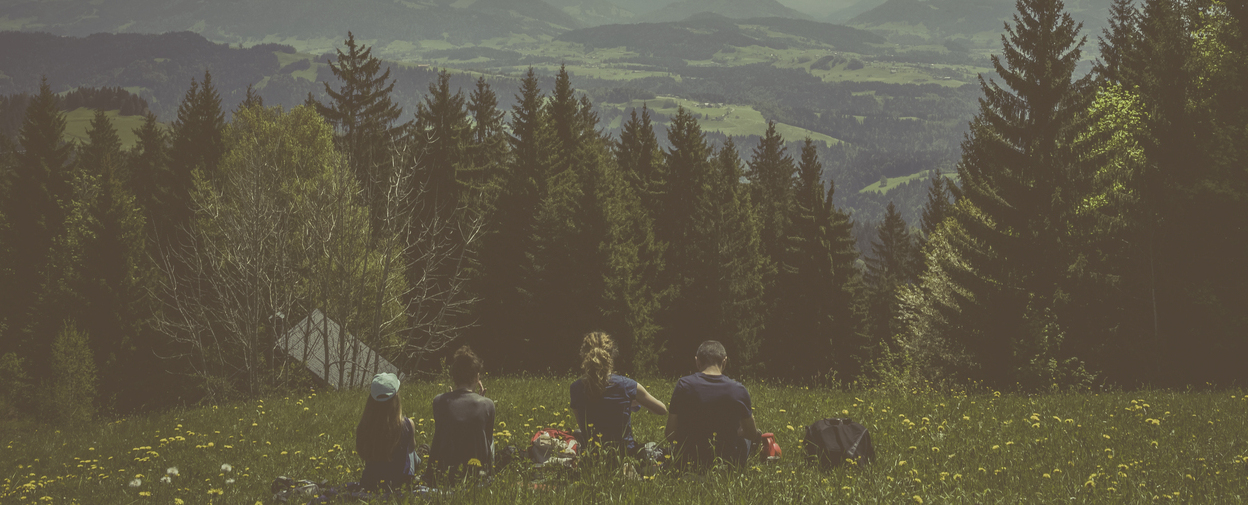
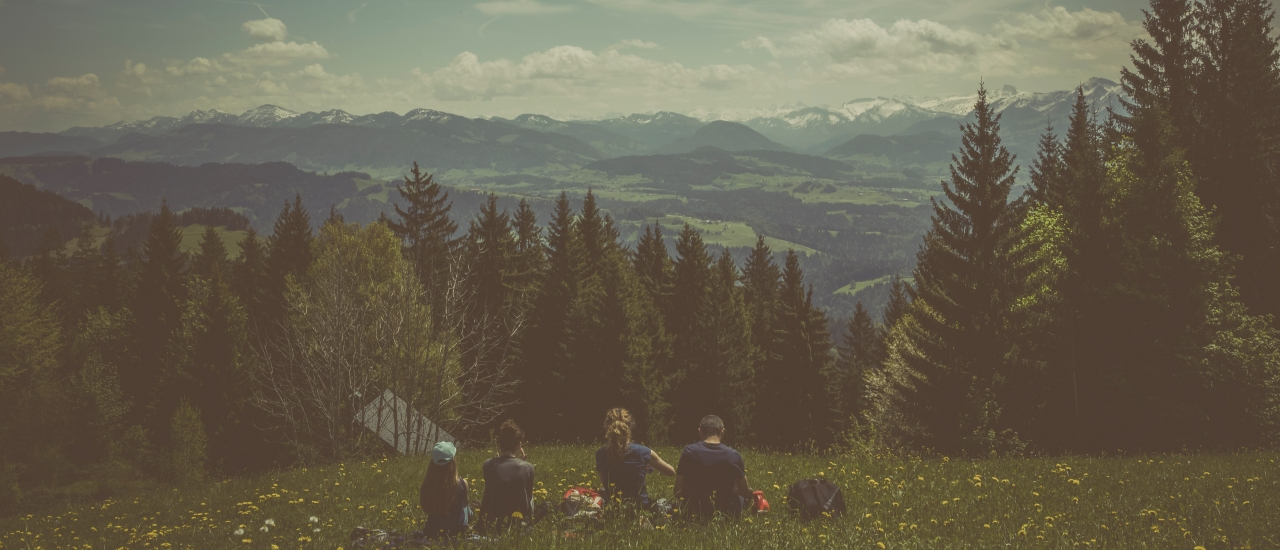
Code refactoring

diff --git a/client/components/Header.js b/client/components/Header.js
@@ -1,24 +1,30 @@
 /* eslint react/prop-types: 0 */
 import React from 'react';
 import { withStyles } from 'material-ui/styles';
+import classNames from 'classnames';
 import Grid from 'material-ui/Grid';
 import Typography from 'material-ui/Typography';
+import Button from 'material-ui/Button';
 import Avatar from 'material-ui/Avatar';
-import Paper from 'material-ui/Paper';
 import handShake from '../images/hand_shake.svg';
 import wallClock from '../images/wall_clock.svg';
 import group from '../images/group.svg';
 import homeBanner from '../images/gum_homebanner.jpg';
 
-const styles = theme => ({
-  root: {
-    marginTop: -8
-  },
+const styles = () => ({
   headerArea: {
     width: 1280,
+    height: 550,
     margin: '0 auto',
-    padding: '20px 0',
-    background: `url(${homeBanner}) no-repeat center`
+    padding: '0px 20px',
+    background: `url(${homeBanner}) no-repeat top center`
+  },
+  topHeader: {
+    margin: 0
+  },
+  titleBox: {
+    alignSelf: 'center',
+    textAlign: 'left'
   },
   title: {
     fontFamily: 'Barrio',
@@ -32,18 +38,33 @@ const styles = theme => ({
     fontSize: 20,
     lineHeight: 'normal',
     letterSpacing: 3.4,
-    textAlign: 'left',
+    textAlign: 'center',
     color: '#ffffff'
   },
-  paper: {
-    padding: theme.spacing.unit * 2,
-    width: '80%', // temporary box waiting for search box
-    visibility: 'hidden' // temporary box waiting for search box
+  countryBox: {
+    alignSelf: 'flex-start',
+    textAlign: 'left',
+    visibility: 'hidden'
   },
-  row: {
+  publishBox: {
+    alignSelf: 'flex-start',
+    textAlign: 'right',
+    visibility: 'hidden'
+  },
+  publishButton: {
+    fontSize: '14px',
+    fontWeight: 900,
+    color: 'rgba(255, 255, 255, 0.87)',
+    backgroundColor: '#4a90e2'
+  },
+  bottomHeader: {
+    margin: 0,
+    alignItems: 'flex-start'
+  },
+  valueBox: {
     display: 'flex',
-    justifyContent: 'center',
-    alignItems: 'center'
+    alignItems: 'center',
+    justifyContent: 'center'
   },
   valueImageBox: {
     width: '108px',
@@ -65,75 +86,92 @@ const styles = theme => ({
     letterSpacing: 3.4,
     textAlign: 'left',
     color: '#ffffff'
+  },
+  flex1: {
+    flex: 1
+  },
+  flex2: {
+    flex: 2
   }
 });
 
 const Header = (props) => {
   const { classes } = props;
+  const topHeader = classNames(`${classes.topHeader}`, `${classes.flex1}`);
+  const countryBox = classNames(`${classes.countryBox}`);
+  const titleBox = classNames(`${classes.titleBox}`);
+  const publishBox = classNames(`${classes.publishBox}`);
+  const searchBox = classNames(`${classes.flex2}`);
+  const bottomHeader = classNames(`${classes.bottomHeader}`, `${classes.flex2}`);
+  const valueBox = classNames(`${classes.valueBox}`);
+
   return (
     <Grid
       container
       direction="column"
       justify="center"
       alignItems="stretch"
-      spacing={40}
       className={classes.headerArea}
     >
-
-      <Grid xs={12} item className={classes.row}>
-        <Typography variant="title" className={classes.title} gutterBottom>
-          One hour a Day
-        </Typography>
+      <Grid container xs={12} className={topHeader}>
+        <Grid xs={4} item className={countryBox}>
+          <Button variant="raised" color="primary">
+            Primary
+          </Button>
+        </Grid>
+        <Grid xs={4} item className={titleBox}>
+          <Typography variant="title" className={classes.title}>
+            One hour a Day
+          </Typography>
+        </Grid>
+        <Grid xs={4} item className={publishBox}>
+          <Button variant="raised" color="primary" className={classes.publishButton}>
+            Publish your social project
+          </Button>
+        </Grid>
       </Grid>
 
-      <Grid xs={12} item className={classes.row}>
-        <Typography variant="subheading" className={classes.subtitle} gutterBottom>
+      <Grid xs={12} item className={searchBox}>
+        <Typography variant="subheading" className={classes.subtitle}>
           Spend 1 hour and help a social cause
         </Typography>
       </Grid>
 
-      <Grid xs={12} item className={classes.row}>
-        <Paper className={classes.paper}>search box</Paper>
-      </Grid>
+      <Grid container xs={12} className={bottomHeader} justify="center">
 
-
-      <Grid item xs={12}>
-        <Grid container justify="center">
-
-          <Grid xs={4} item className={classes.row}>
-            <Avatar className={classes.valueImageBox}>
-              <img src={handShake} className={classes.valueImage} alt="handShake" />
-            </Avatar>
-            <div className={classes.valueTextBox}>
-              <Typography className={classes.valueText}>
-                Be a hero. Help an organisation and improve your skills
-              </Typography>
-            </div>
-          </Grid>
-
-          <Grid xs={4} item className={classes.row}>
-            <Avatar className={classes.valueImageBox}>
-              <img src={wallClock} className={classes.valueImage} alt="wallClock" />
-            </Avatar>
-            <div className={classes.valueTextBox}>
-              <Typography className={classes.valueText}>
-                All you need to dedicate is an hour
-              </Typography>
-            </div>
-          </Grid>
-
-          <Grid xs={4} item className={classes.row}>
-            <Avatar className={classes.valueImageBox}>
-              <img src={group} className={classes.valueImage} alt="group" />
-            </Avatar>
-            <div className={classes.valueTextBox}>
-              <Typography className={classes.valueText}>
-                A little collaboration from each of us can generate a huge impact
-              </Typography>
-            </div>
-          </Grid>
-
+        <Grid xs={4} item className={valueBox}>
+          <Avatar className={classes.valueImageBox}>
+            <img src={handShake} className={classes.valueImage} alt="handShake" />
+          </Avatar>
+          <div className={classes.valueTextBox}>
+            <Typography className={classes.valueText}>
+              Be a hero. Help an organisation and improve your skills
+            </Typography>
+          </div>
         </Grid>
+
+        <Grid xs={4} item className={valueBox}>
+          <Avatar className={classes.valueImageBox}>
+            <img src={wallClock} className={classes.valueImage} alt="wallClock" />
+          </Avatar>
+          <div className={classes.valueTextBox}>
+            <Typography className={classes.valueText}>
+              All you need to dedicate is an hour
+            </Typography>
+          </div>
+        </Grid>
+
+        <Grid xs={4} item className={valueBox}>
+          <Avatar className={classes.valueImageBox}>
+            <img src={group} className={classes.valueImage} alt="group" />
+          </Avatar>
+          <div className={classes.valueTextBox}>
+            <Typography className={classes.valueText}>
+              A little collaboration from each of us can generate a huge impact
+            </Typography>
+          </div>
+        </Grid>
+
       </Grid>
 
     </Grid>
